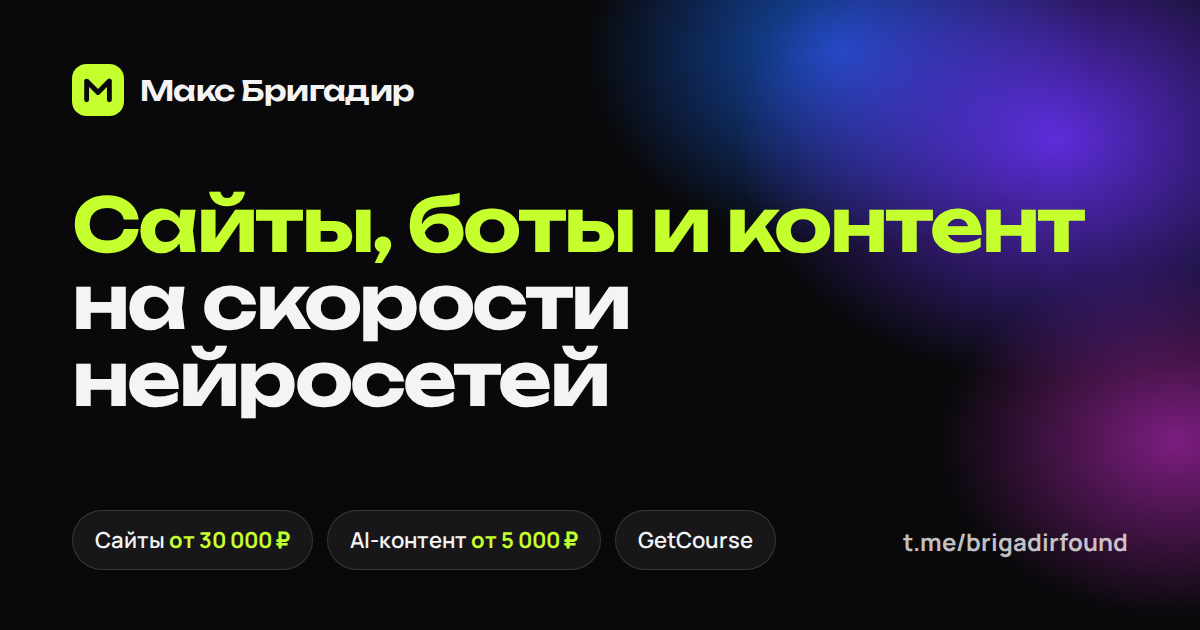
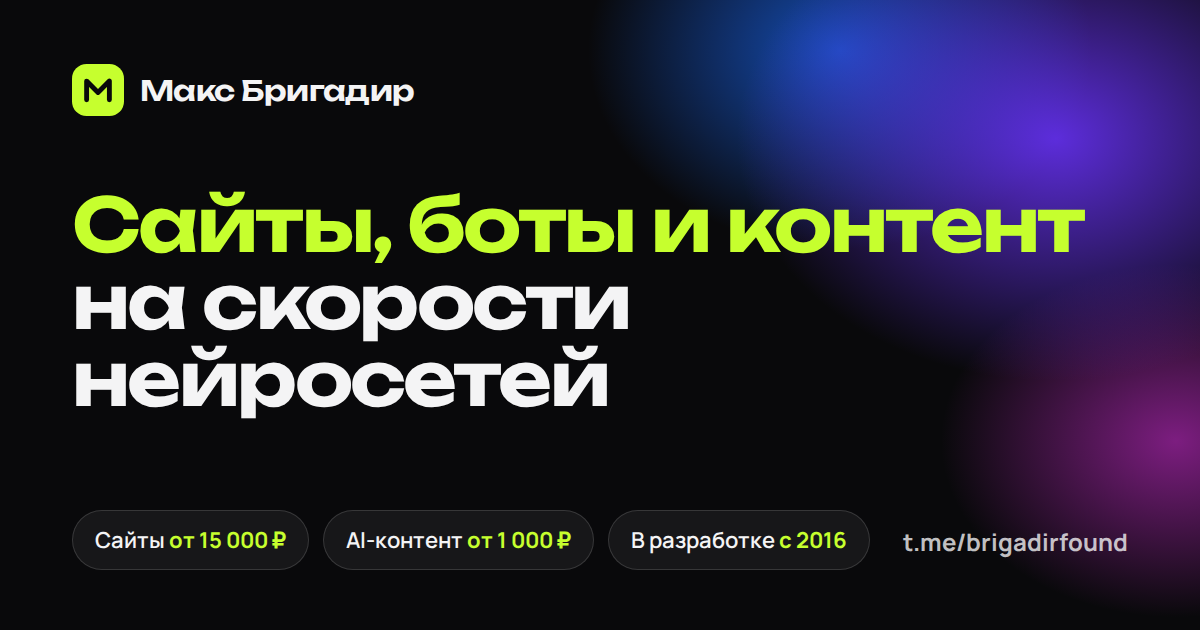
Update prices and story, add dentistry case
- Prices: sites from 15 000 ₽, AI content from 1 000 ₽ (hero, services,
  FAQ, meta tags, OG image)
- Story: in development since 2016, with neural networks since GPT-3,
  now focused on games and apps; hero gets an experience fact
- New case: premium dental clinic site in Kazan with a real screenshot
- ЖК landing marked as a concept and moved down the list
- FAQ: platforms (Tilda, WordPress, own code) and post-launch support

Claude-Session: https://claude.ai/code/session_01PFSuANniDuMYVTWb3rKwna

Changed region(s): [[0.2775, 0.8444, 0.4933, 0.8746], [0.5242, 0.8444, 0.7092, 0.8746], [0.1542, 0.8444, 0.2467, 0.8746]]

diff --git a/src/content/site.ts b/src/content/site.ts
@@ -28,10 +28,11 @@ export const hero = {
   rotatingWords: ["Сайты", "Приложения", "Telegram-боты", "AI-видео", "Креативы", "Игры"],
   staticLead: "Сайты, боты и контент",
   titleTail: "на скорости нейросетей",
-  lead: "Я Макс. Делаю digital под ключ: лендинги и веб-приложения, Telegram-ботов, AI-видео и креативы. А ещё веду онлайн-школы на GetCourse.",
+  lead: "Я Макс, в разработке с 2016 года. Делаю под ключ сайты, приложения и игры, Telegram-ботов, AI-видео и креативы. А ещё веду онлайн-школы на GetCourse.",
   facts: [
-    { label: "Сайты", value: "от 30 000 ₽" },
-    { label: "Контент", value: "от 5 000 ₽" },
+    { label: "Сайты", value: "от 15 000 ₽" },
+    { label: "Контент", value: "от 1 000 ₽" },
+    { label: "Опыт", value: "с 2016 года" },
     { label: "Ответ", value: "до 24 часов" },
   ],
 };
@@ -64,15 +65,16 @@ export const services: {
   {
     id: "dev",
     index: "01",
-    title: "Сайты, приложения и боты",
-    lead: "Лендинги, сайты-визитки, веб-приложения, Telegram-боты и мини-аппы. Делаю с нейросетями — быстрее и дешевле классической студии.",
+    title: "Сайты, приложения и игры",
+    lead: "Лендинги и многостраничные сайты, веб-приложения, игры, Telegram-боты и мини-аппы. Делаю с нейросетями — быстрее и дешевле классической студии.",
     points: [
+      "Tilda, WordPress или свой код — как удобнее вам",
       "Дизайн и адаптив под телефоны",
       "Заявки прямо в Telegram",
-      "Аналитика и запуск на вашем домене",
-      "Доработка готовых сайтов, в том числе на Tilda",
+      "Поддержка и доработки после запуска",
+      "Игры и приложения — цена по задаче",
     ],
-    price: "от 30 000 ₽",
+    price: "от 15 000 ₽",
   },
   {
     id: "content",
@@ -80,7 +82,7 @@ export const services: {
     title: "AI-контент",
     lead: "Креативы для рекламы и соцсетей, AI-видео, фотореалистичные изображения и мемы, которые цепляют.",
     points: ["Мемы и визуалы в тоне бренда", "AI-видео и фото без съёмок", "Разово или пакетом на месяц"],
-    price: "от 5 000 ₽",
+    price: "от 1 000 ₽",
   },
   {
     id: "schools",
@@ -114,11 +116,12 @@ export const processSteps = [
 export const about = {
   title: "Привет, я Макс",
   paragraphs: [
-    "Пришёл в digital из продаж и съёмок: четыре года продавал и вёл соцсети магазина, снимал бэкстейджи для клипов, сам снимался в рекламе и запускал свой бренд одежды.",
-    "Два года работаю техническим специалистом онлайн-школ на GetCourse. Параллельно был мемологом на аутсорсе в рекламном агентстве — делал креативы и мемы для Яндекса, Okko, Mamba и «Пяти Озёр». А мои тестовые AI-Shorts набрали 428 тысяч просмотров за 28 дней.",
-    "Последние полгода — с головой в нейросетях: делаю сайты, приложения, игры и собственный VPN-сервис. Нейросети — мой основной инструмент: с ними получается быстрее и дешевле, чем в классической студии, а за идею, вкус и качество отвечаю я сам.",
+    "Делаю сайты с 2016 года — ещё до нейросетей. Начинал с игровых рулеток для CS:GO: сейчас это скорее забавный факт, но там были розыгрыши в реальном времени, вход через Steam и свой магазин.",
+    "С нейросетями работаю со времён GPT-3, а этим летом перетестировал почти все актуальные модели — знаю, какая для чего подходит. Сейчас специализируюсь на играх и приложениях: это заметно сложнее сайтов. В работе — собственный VPN-сервис.",
+    "Параллельно два года веду онлайн-школы на GetCourse и был мемологом на аутсорсе в рекламном агентстве — креативы и мемы для Яндекса, Okko, Mamba и «Пяти Озёр». А ещё продажи, съёмки и свой бренд одежды, поэтому думаю не только о коде, но и о том, что цепляет аудиторию и приносит заявки.",
   ],
   facts: [
+    { value: "С 2016", label: "в разработке — ещё до нейросетей" },
     { value: "428 тыс.", label: "просмотров AI-Shorts за 28 дней" },
     { value: "8", label: "продуктов Яндекса, Okko, Mamba и «Пяти Озёр» — креативы через агентство" },
     { value: "2 года", label: "техспец онлайн-школ на GetCourse" },
@@ -128,11 +131,15 @@ export const about = {
 export const faq = [
   {
     q: "Сколько стоит сайт?",
-    a: "От 30 000 ₽. Итог зависит от объёма: лендинг, многостраничный сайт или веб-приложение. Точную сумму назову после короткого обсуждения.",
+    a: "От 15 000 ₽. Итог зависит от объёма: лендинг, многостраничный сайт или веб-приложение. Точную сумму назову после короткого обсуждения. Игры и приложения считаю по задаче.",
   },
   {
     q: "А контент?",
-    a: "От 5 000 ₽: креативы, AI-видео, фото, мемы. Можно разово, можно пакетом на месяц.",
+    a: "От 1 000 ₽: креативы, AI-видео, фото, мемы. Можно разово, можно пакетом на месяц.",
+  },
+  {
+    q: "На какой платформе делаете сайты?",
+    a: "На любой удобной вам: Tilda, WordPress или свой код. Сам склоняюсь к своему коду — так больше возможностей сделать сайт красивым и быстрым.",
   },
   {
     q: "Сколько времени займёт работа?",
@@ -144,7 +151,11 @@ export const faq = [
   },
   {
     q: "Можно доработать уже готовый сайт?",
-    a: "Да. Разберусь в текущем сайте — в том числе на Tilda — и доделаю или переделаю то, что нужно.",
+    a: "Да. Разберусь в текущем сайте — в том числе на Tilda или WordPress — и доделаю или переделаю то, что нужно.",
+  },
+  {
+    q: "Поддерживаете сайт после запуска?",
+    a: "Да, беру сайты на поддержку: правки, обновления, новые блоки. А если хотите править сами — сделаю удобную админку без кода.",
   },
   {
     q: "Покажете работы под NDA?",

diff --git a/src/content/cases.ts b/src/content/cases.ts
@@ -75,15 +75,20 @@ export const cases: CaseStudy[] = [
     result: "Работы под NDA, поэтому здесь без картинок. Примеры покажу лично в Telegram.",
   },
   {
-    slug: "landing-zhk",
-    title: "Лендинг для продажи квартир в ЖК",
+    slug: "stomatology-kazan",
+    title: "Сайт премиальной стоматологии в Казани",
     category: "dev",
-    summary: "Продающий лендинг жилого комплекса на Tilda: подбор квартир и формы заявок.",
-    tags: ["Tilda", "Лендинг", "Формы заявок"],
-    cover: { motif: "browser", hue: 210, label: "ЖК" },
-    task: "Сделать лендинг, который приводит заявки на покупку квартир.",
-    done: ["Структура и тексты под продажу", "Вёрстка на Tilda с адаптивом под телефоны", "Интеграция форм заявок"],
-    result: "Готовый лендинг-продажник с подбором квартир и приёмом заявок.",
+    summary: "Сайт клиники в строгом чёрно-белом стиле: услуги, врачи, технологии, отзывы, прайс и запись на приём.",
+    tags: ["Сайт под ключ", "Медицина", "Адаптив"],
+    cover: { motif: "browser", hue: 0, label: "DENT" },
+    image: "/cases/stomatology-kazan/cover.webp",
+    task: "Сделать сайт премиальной клиники, который передаёт атмосферу приватного сервиса и приводит пациентов на запись.",
+    done: [
+      "Дизайн в строгом чёрно-белом стиле с акцентом на фото",
+      "Разделы: о клинике, услуги, врачи, технологии, отзывы, контакты и прайс",
+      "Запись на приём, звонок и WhatsApp в один клик",
+    ],
+    result: "Сайт запущен на домене клиники. На обложке — версия на момент сдачи: дальше сайт редактирует сама клиника.",
   },
   {
     slug: "getcourse-schools",
@@ -138,6 +143,17 @@ export const cases: CaseStudy[] = [
     result: "Динамичные ролики с AI-визуалами для личного бренда эксперта.",
   },
   {
+    slug: "landing-zhk",
+    title: "Концепт лендинга для ЖК",
+    category: "dev",
+    summary: "Пример продающего лендинга жилого комплекса на Tilda: подбор квартир и формы заявок.",
+    tags: ["Tilda", "Лендинг", "Формы заявок"],
+    cover: { motif: "browser", hue: 210, label: "ЖК" },
+    task: "Показать, как может выглядеть продающий лендинг новостройки.",
+    done: ["Структура и тексты под продажу", "Вёрстка на Tilda с адаптивом под телефоны", "Интеграция форм заявок"],
+    result: "Концепт лендинга-продажника с подбором квартир и приёмом заявок.",
+  },
+  {
     slug: "vpn",
     title: "Собственный VPN-сервис",
     category: "dev",
@@ -168,6 +184,7 @@ export const cases: CaseStudy[] = [
       "Дизайн-система: цвета, шрифты, компоненты",
       "Анимации и живой WebGL-фон",
       "Быстрая статическая сборка без внешних зависимостей",
+      "В прошлой версии — своя админ-панель для редактирования кейсов без кода",
     ],
     result: "Сайт, который работает как продавец: объясняет, показывает и ведёт в Telegram.",
     link: { href: "/", label: "Вы уже здесь" },

diff --git a/index.html b/index.html
@@ -9,7 +9,7 @@
     <title>Макс Бригадир — сайты, боты и AI-контент на скорости нейросетей</title>
     <meta
       name="description"
-      content="Делаю сайты, приложения, Telegram-ботов и AI-контент под ключ. Техподдержка онлайн-школ на GetCourse. Сайты — от 30 000 ₽, контент — от 5 000 ₽."
+      content="Делаю сайты, приложения, игры, Telegram-ботов и AI-контент под ключ. В разработке с 2016 года. Сайты — от 15 000 ₽, контент — от 1 000 ₽."
     />
     <meta name="author" content="Максим (Макс Бригадир)" />
 
@@ -23,10 +23,10 @@
     <meta property="og:title" content="Макс Бригадир — сайты, боты и AI-контент на скорости нейросетей" />
     <meta
       property="og:description"
-      content="Сайты, приложения, Telegram-боты и AI-контент под ключ. Креативы для Яндекса, Okko и Mamba. Сайты — от 30 000 ₽."
+      content="Сайты, приложения, игры и AI-контент под ключ. В разработке с 2016 года, креативы для Яндекса, Okko и Mamba. Сайты — от 15 000 ₽."
     />
     <meta property="og:url" content="https://copy-wonderland-kit.lovable.app/" />
-    <meta property="og:image" content="https://copy-wonderland-kit.lovable.app/og-image.png?v=5" />
+    <meta property="og:image" content="https://copy-wonderland-kit.lovable.app/og-image.png?v=6" />
     <meta property="og:image:width" content="1200" />
     <meta property="og:image:height" content="630" />
 
@@ -34,9 +34,9 @@
     <meta name="twitter:title" content="Макс Бригадир — сайты, боты и AI-контент на скорости нейросетей" />
     <meta
       name="twitter:description"
-      content="Сайты, приложения, Telegram-боты и AI-контент под ключ. Сайты — от 30 000 ₽, контент — от 5 000 ₽."
+      content="Сайты, приложения, игры и AI-контент под ключ. Сайты — от 15 000 ₽, контент — от 1 000 ₽."
     />
-    <meta name="twitter:image" content="https://copy-wonderland-kit.lovable.app/og-image.png?v=5" />
+    <meta name="twitter:image" content="https://copy-wonderland-kit.lovable.app/og-image.png?v=6" />
   </head>
 
   <body>

diff --git a/src/components/sections/Hero.tsx b/src/components/sections/Hero.tsx
@@ -55,7 +55,7 @@ function SplitWords({ text, delay = 0 }: { text: string; delay?: number }) {
 const floatingChips: { icon: LucideIcon; title: string; meta: string; className: string; float: number }[] = [
   { icon: Play, title: "AI-Shorts", meta: "428 тыс. просмотров", className: "right-[6%] top-[22%]", float: 6 },
   { icon: Bot, title: "Telegram-бот", meta: "Новая заявка · сейчас", className: "right-[24%] top-[40%]", float: 7 },
-  { icon: MonitorSmartphone, title: "Лендинг", meta: "от 30 000 ₽", className: "right-[4%] top-[57%]", float: 5.5 },
+  { icon: MonitorSmartphone, title: "Лендинг", meta: "от 15 000 ₽", className: "right-[4%] top-[57%]", float: 5.5 },
   { icon: GraduationCap, title: "GetCourse", meta: "Доступ открыт ✓", className: "right-[20%] top-[74%]", float: 6.5 },
 ];
 
@@ -148,7 +148,7 @@ export default function Hero() {
           </ButtonLink>
         </m.div>
 
-        <m.dl {...motionProps(0.7)} className="mt-14 grid max-w-2xl grid-cols-3 gap-4 border-t border-white/10 pt-6">
+        <m.dl {...motionProps(0.7)} className="mt-14 grid max-w-3xl grid-cols-2 gap-x-4 gap-y-5 border-t border-white/10 pt-6 sm:grid-cols-4">
           {hero.facts.map((fact) => (
             <div key={fact.label}>
               <dt className="eyebrow text-[10px] sm:text-xs">{fact.label}</dt>

diff --git a/src/hooks/usePageMeta.ts b/src/hooks/usePageMeta.ts
@@ -3,7 +3,7 @@ import { site } from "@/content/site";
 
 const DEFAULT_TITLE = `${site.brand} — сайты, боты и AI-контент на скорости нейросетей`;
 const DEFAULT_DESCRIPTION =
-  "Делаю сайты, приложения, Telegram-ботов и AI-контент под ключ. Техподдержка онлайн-школ на GetCourse. Сайты — от 30 000 ₽, контент — от 5 000 ₽.";
+  "Делаю сайты, приложения, игры, Telegram-ботов и AI-контент под ключ. В разработке с 2016 года. Сайты — от 15 000 ₽, контент — от 1 000 ₽.";
 
 /** Заголовок вкладки и описание страницы. */
 export function usePageMeta(title?: string, description?: string) {

diff --git a/src/components/sections/About.tsx b/src/components/sections/About.tsx
@@ -41,7 +41,7 @@ export default function About() {
             ))}
           </div>
 
-          <ul className="mt-12 grid gap-4 sm:grid-cols-3">
+          <ul className="mt-12 grid gap-4 sm:grid-cols-2">
             {about.facts.map((fact, i) => (
               <Reveal
                 as="li"
